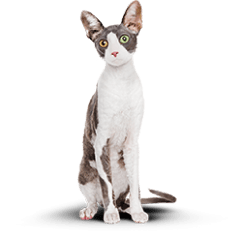
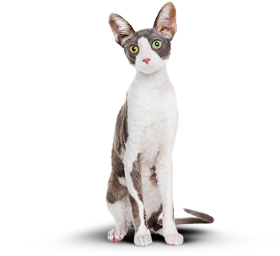
переделал слайдер

Changed region(s): [[0.2016, 0.0, 0.7778, 0.9655]]

diff --git a/source/index.html b/source/index.html
@@ -112,8 +112,12 @@
             </dl>
           </div>
           <div class="example__comparison comparison" aria-hidden="true">
+            <div class="comparison__container comparison__container--after">
               <img class="comparison__image comparison__image--after" src="./img/cat-after.png" alt="Кот Борис после замены своего корма на Cat Energy Slim.">
+            </div>
+            <div class="comparison__container comparison__container--before">
               <img class="comparison__image comparison__image--before" src="./img/cat-before.png" alt="Кот Борис до диеты.">
+            </div>
             <div class="comparison__control split">
               <div class="comparison__divider"></div>
               <button class="comparison__thumb" type="button"></button>

diff --git a/source/sass/blocks/_comparison.scss b/source/sass/blocks/_comparison.scss
@@ -13,10 +13,43 @@
   }
 }
 
-.comparison__image {
+.comparison__container {
   position: absolute;
+  width: 50%;
   height: 100%;
-  object-fit: cover;
+  overflow: hidden;
+
+  &--after {
+    content: "";
+    display: block;
+    top: 0;
+    right: 0;
+  }
+
+  &--before {
+    content: "";
+    display: block;
+    top: 0;
+    left: 0;
+  }
+}
+
+.comparison__image {
+  display: block;
+
+  &--after {
+    position: absolute;
+    top: 50%;
+    left: 0;
+    transform: translate(-50%, -50%);
+  }
+
+  &--before {
+    position: absolute;
+    top: 50%;
+    right: 0;
+    transform: translate(50%, -50%);
+  }
 }
 
 .comparison__divider {
